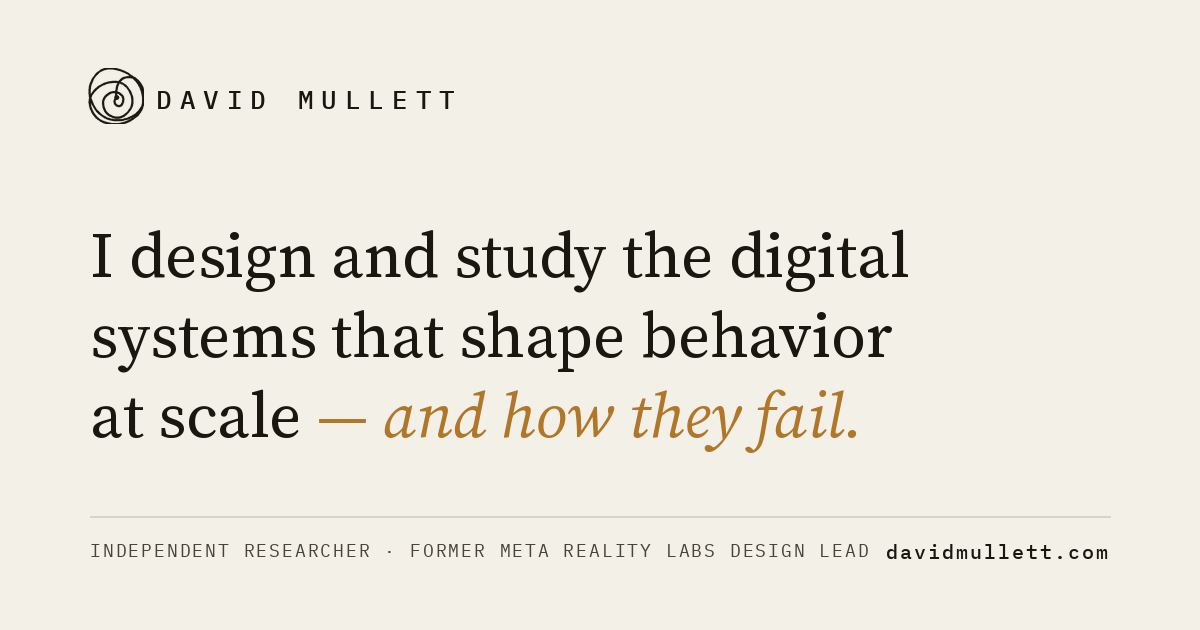
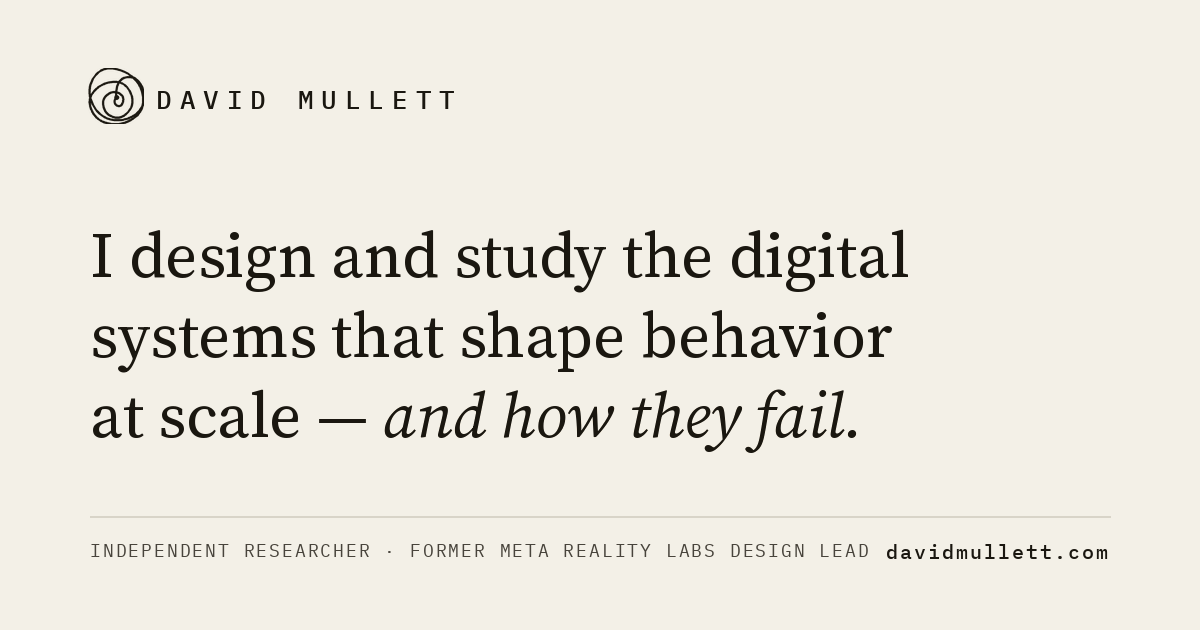
Update site from davidmullett-com.zip

Changed region(s): [[0.2775, 0.6032, 0.7092, 0.7238]]

diff --git a/index.html b/index.html
@@ -11,6 +11,8 @@
 <link rel="icon" href="/favicon.svg" type="image/svg+xml">
 <link rel="icon" type="image/png" sizes="32x32" href="/favicon-32.png">
 <link rel="icon" type="image/png" sizes="16x16" href="/favicon-16.png">
+<link rel="apple-touch-icon" href="/apple-touch-icon.png">
+<link rel="manifest" href="/site.webmanifest">
 
 <meta property="og:type" content="website">
 <meta property="og:site_name" content="David Mullett">
@@ -33,8 +35,8 @@
 <style>
 *, *::before, *::after { box-sizing:border-box; margin:0; padding:0; }
 :root {
-  --cream:#f3f0e7; --paper-2:#efebe0; --ink:#1a1710; --ink-2:#48443c; --ink-3:#8c8880;
-  --rule-lt:#d8d4c8; --rule-2:#c9c4b6; --ph:#1faa5e; --ph-border:rgba(45,214,122,.5); --ph-dim:rgba(45,214,122,.05);
+  --cream:#f3f0e7; --paper-2:#efebe0; --ink:#1a1710; --ink-2:#48443c; --ink-3:#6e6a62;
+  --rule-lt:#d8d4c8; --rule-2:#c9c4b6; --ph:#1faa5e; --ph-d:#157a43; --ph-border:rgba(45,214,122,.5); --ph-dim:rgba(45,214,122,.05);
   --serif:'Source Serif 4',Georgia,serif; --mono:'IBM Plex Mono','Courier New',monospace;
 }
 html { font-size:18px; -webkit-text-size-adjust:100%; text-rendering:optimizeLegibility;
@@ -50,7 +52,7 @@ a { color:var(--ink); text-decoration:underline; text-decoration-color:var(--rul
 a:hover { text-decoration-color:var(--ink-2); }
 /* family rule: green is reserved for links that point to the work */
 a.lz { text-decoration-color:var(--ph-border); }
-a.lz:hover { color:var(--ph); text-decoration-color:var(--ph); }
+a.lz:hover { color:var(--ph-d); text-decoration-color:var(--ph-d); }
 
 nav { margin-bottom:52px; padding-bottom:16px; border-bottom:1px solid var(--rule-lt); }
 .nav-list { list-style:none; display:flex; gap:0 28px; flex-wrap:wrap; }
@@ -94,11 +96,11 @@ p:last-child { margin-bottom:0; }
 /* Current work card — the one place green appears as accent (points to the work) */
 .work-card { max-width:54ch; border-left:2px solid var(--ph-border); background:var(--ph-dim); padding:20px 24px; }
 .work-kicker { font-family:var(--mono); font-size:0.52rem; font-weight:400; letter-spacing:0.26em;
-  text-transform:uppercase; color:var(--ph); display:block; margin-bottom:10px; }
+  text-transform:uppercase; color:var(--ph-d); display:block; margin-bottom:10px; }
 .work-card p { font-size:0.98rem; max-width:none; margin-bottom:14px; }
 .work-link { font-family:var(--mono); font-size:0.62rem; font-weight:400; color:var(--ink);
   text-decoration:underline; text-decoration-color:var(--ph-border); text-underline-offset:3px; }
-.work-link:hover { color:var(--ph); text-decoration-color:var(--ph); }
+.work-link:hover { color:var(--ph-d); text-decoration-color:var(--ph-d); }
 
 
 .contact-list { list-style:none; max-width:54ch; }
@@ -106,14 +108,14 @@ p:last-child { margin-bottom:0; }
 .contact-list li:first-child { border-top:1px solid var(--rule-lt); }
 .contact-list a { font-family:var(--mono); font-size:0.62rem; font-weight:400; color:var(--ink-2); text-decoration:none; letter-spacing:0.04em; }
 .contact-list a:hover { color:var(--ink); }
-.contact-list a.lz:hover { color:var(--ph); }
+.contact-list a.lz:hover { color:var(--ph-d); }
 .contact-url { font-family:var(--mono); font-size:0.56rem; font-weight:300; color:var(--ink-3); letter-spacing:0.02em; }
 .contact-arrow { color:var(--ink-3); }
 
 footer { margin-top:80px; padding-top:20px; border-top:1px solid var(--rule-lt); }
 .footer-text { font-family:var(--mono); font-size:0.56rem; font-weight:300; color:var(--ink-2); letter-spacing:0.05em; line-height:1.9; }
 .footer-text a { font-family:var(--mono); font-size:0.56rem; font-weight:300; color:var(--ink-2); text-decoration:none; }
-.footer-text a:hover { color:var(--ph); }
+.footer-text a:hover { color:var(--ph-d); }
 .foot-sep { color:var(--ink-3); }
 
 @media (max-width:760px){ html{font-size:17px;} .page{margin:0 auto;padding:46px 32px 96px;} h2{margin-left:0;width:100%;} .hero{font-size:1.42rem;} }

diff --git a/about.html b/about.html
@@ -9,6 +9,10 @@
 
 <link rel="canonical" href="https://davidmullett.com/about.html">
 <link rel="icon" href="/favicon.svg" type="image/svg+xml">
+<link rel="icon" type="image/png" sizes="32x32" href="/favicon-32.png">
+<link rel="icon" type="image/png" sizes="16x16" href="/favicon-16.png">
+<link rel="apple-touch-icon" href="/apple-touch-icon.png">
+<link rel="manifest" href="/site.webmanifest">
 
 <meta property="og:type" content="profile">
 <meta property="og:site_name" content="David Mullett">
@@ -29,8 +33,8 @@
 <style>
 *, *::before, *::after { box-sizing:border-box; margin:0; padding:0; }
 :root {
-  --cream:#f3f0e7; --ink:#1a1710; --ink-2:#48443c; --ink-3:#8c8880;
-  --rule-lt:#d8d4c8; --rule-2:#c9c4b6; --ph:#1faa5e; --ph-border:rgba(45,214,122,.5);
+  --cream:#f3f0e7; --ink:#1a1710; --ink-2:#48443c; --ink-3:#6e6a62;
+  --rule-lt:#d8d4c8; --rule-2:#c9c4b6; --ph:#1faa5e; --ph-d:#157a43; --ph-border:rgba(45,214,122,.5);
   --serif:'Source Serif 4',Georgia,serif; --mono:'IBM Plex Mono','Courier New',monospace;
 }
 html { font-size:18px; -webkit-text-size-adjust:100%; text-rendering:optimizeLegibility;
@@ -43,7 +47,7 @@ a { color:var(--ink); text-decoration:underline; text-decoration-color:var(--rul
   text-underline-offset:3px; text-decoration-thickness:1px; transition:text-decoration-color .14s,color .14s; }
 a:hover { text-decoration-color:var(--ink-2); }
 a.lz { text-decoration-color:var(--ph-border); }
-a.lz:hover { color:var(--ph); text-decoration-color:var(--ph); }
+a.lz:hover { color:var(--ph-d); text-decoration-color:var(--ph-d); }
 
 nav { margin-bottom:48px; padding-bottom:16px; border-bottom:1px solid var(--rule-lt); }
 .nav-list { list-style:none; display:flex; gap:0 28px; flex-wrap:wrap; }
@@ -91,7 +95,7 @@ p:last-child { margin-bottom:0; }
 footer { margin-top:84px; padding-top:20px; border-top:1px solid var(--rule-lt); }
 .footer-text { font-family:var(--mono); font-size:0.56rem; font-weight:300; color:var(--ink-2); letter-spacing:0.05em; line-height:1.9; }
 .footer-text a { font-family:var(--mono); font-size:0.56rem; font-weight:300; color:var(--ink-2); text-decoration:none; }
-.footer-text a:hover { color:var(--ph); }
+.footer-text a:hover { color:var(--ph-d); }
 .foot-sep { color:var(--ink-3); }
 
 @media (max-width:760px){ html{font-size:17px;} .page{margin:0 auto;padding:46px 32px 96px;} }